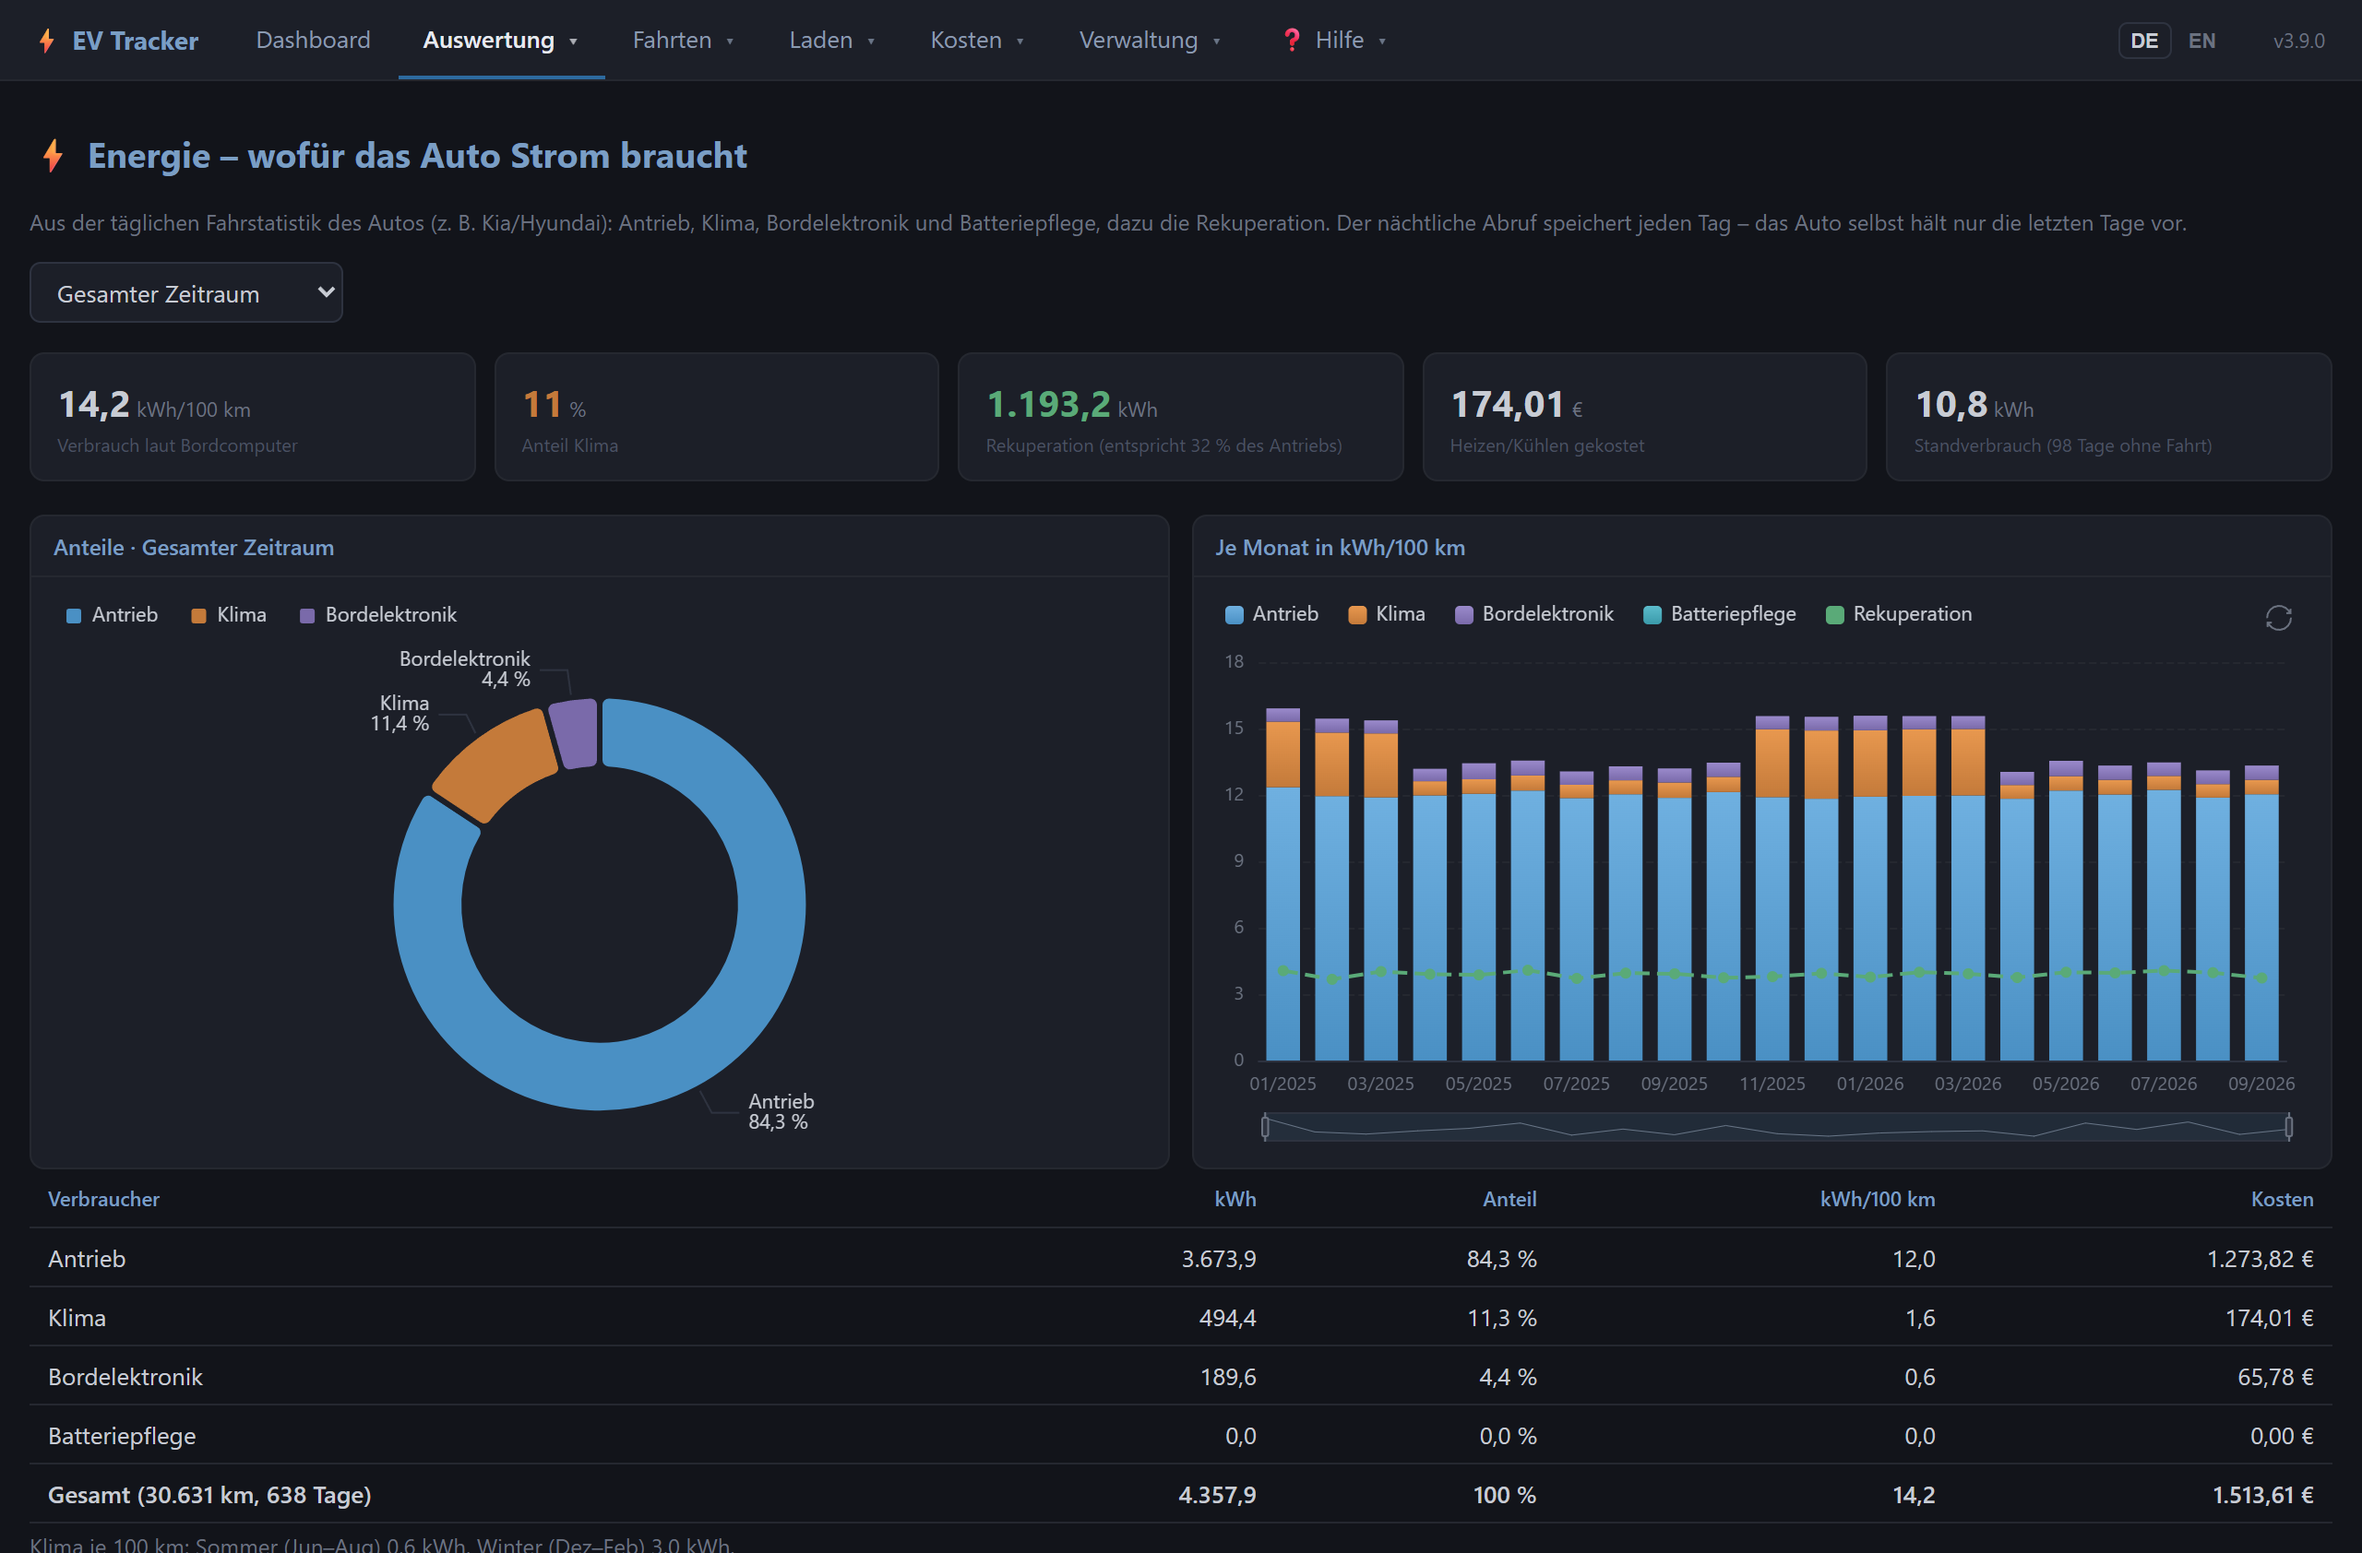
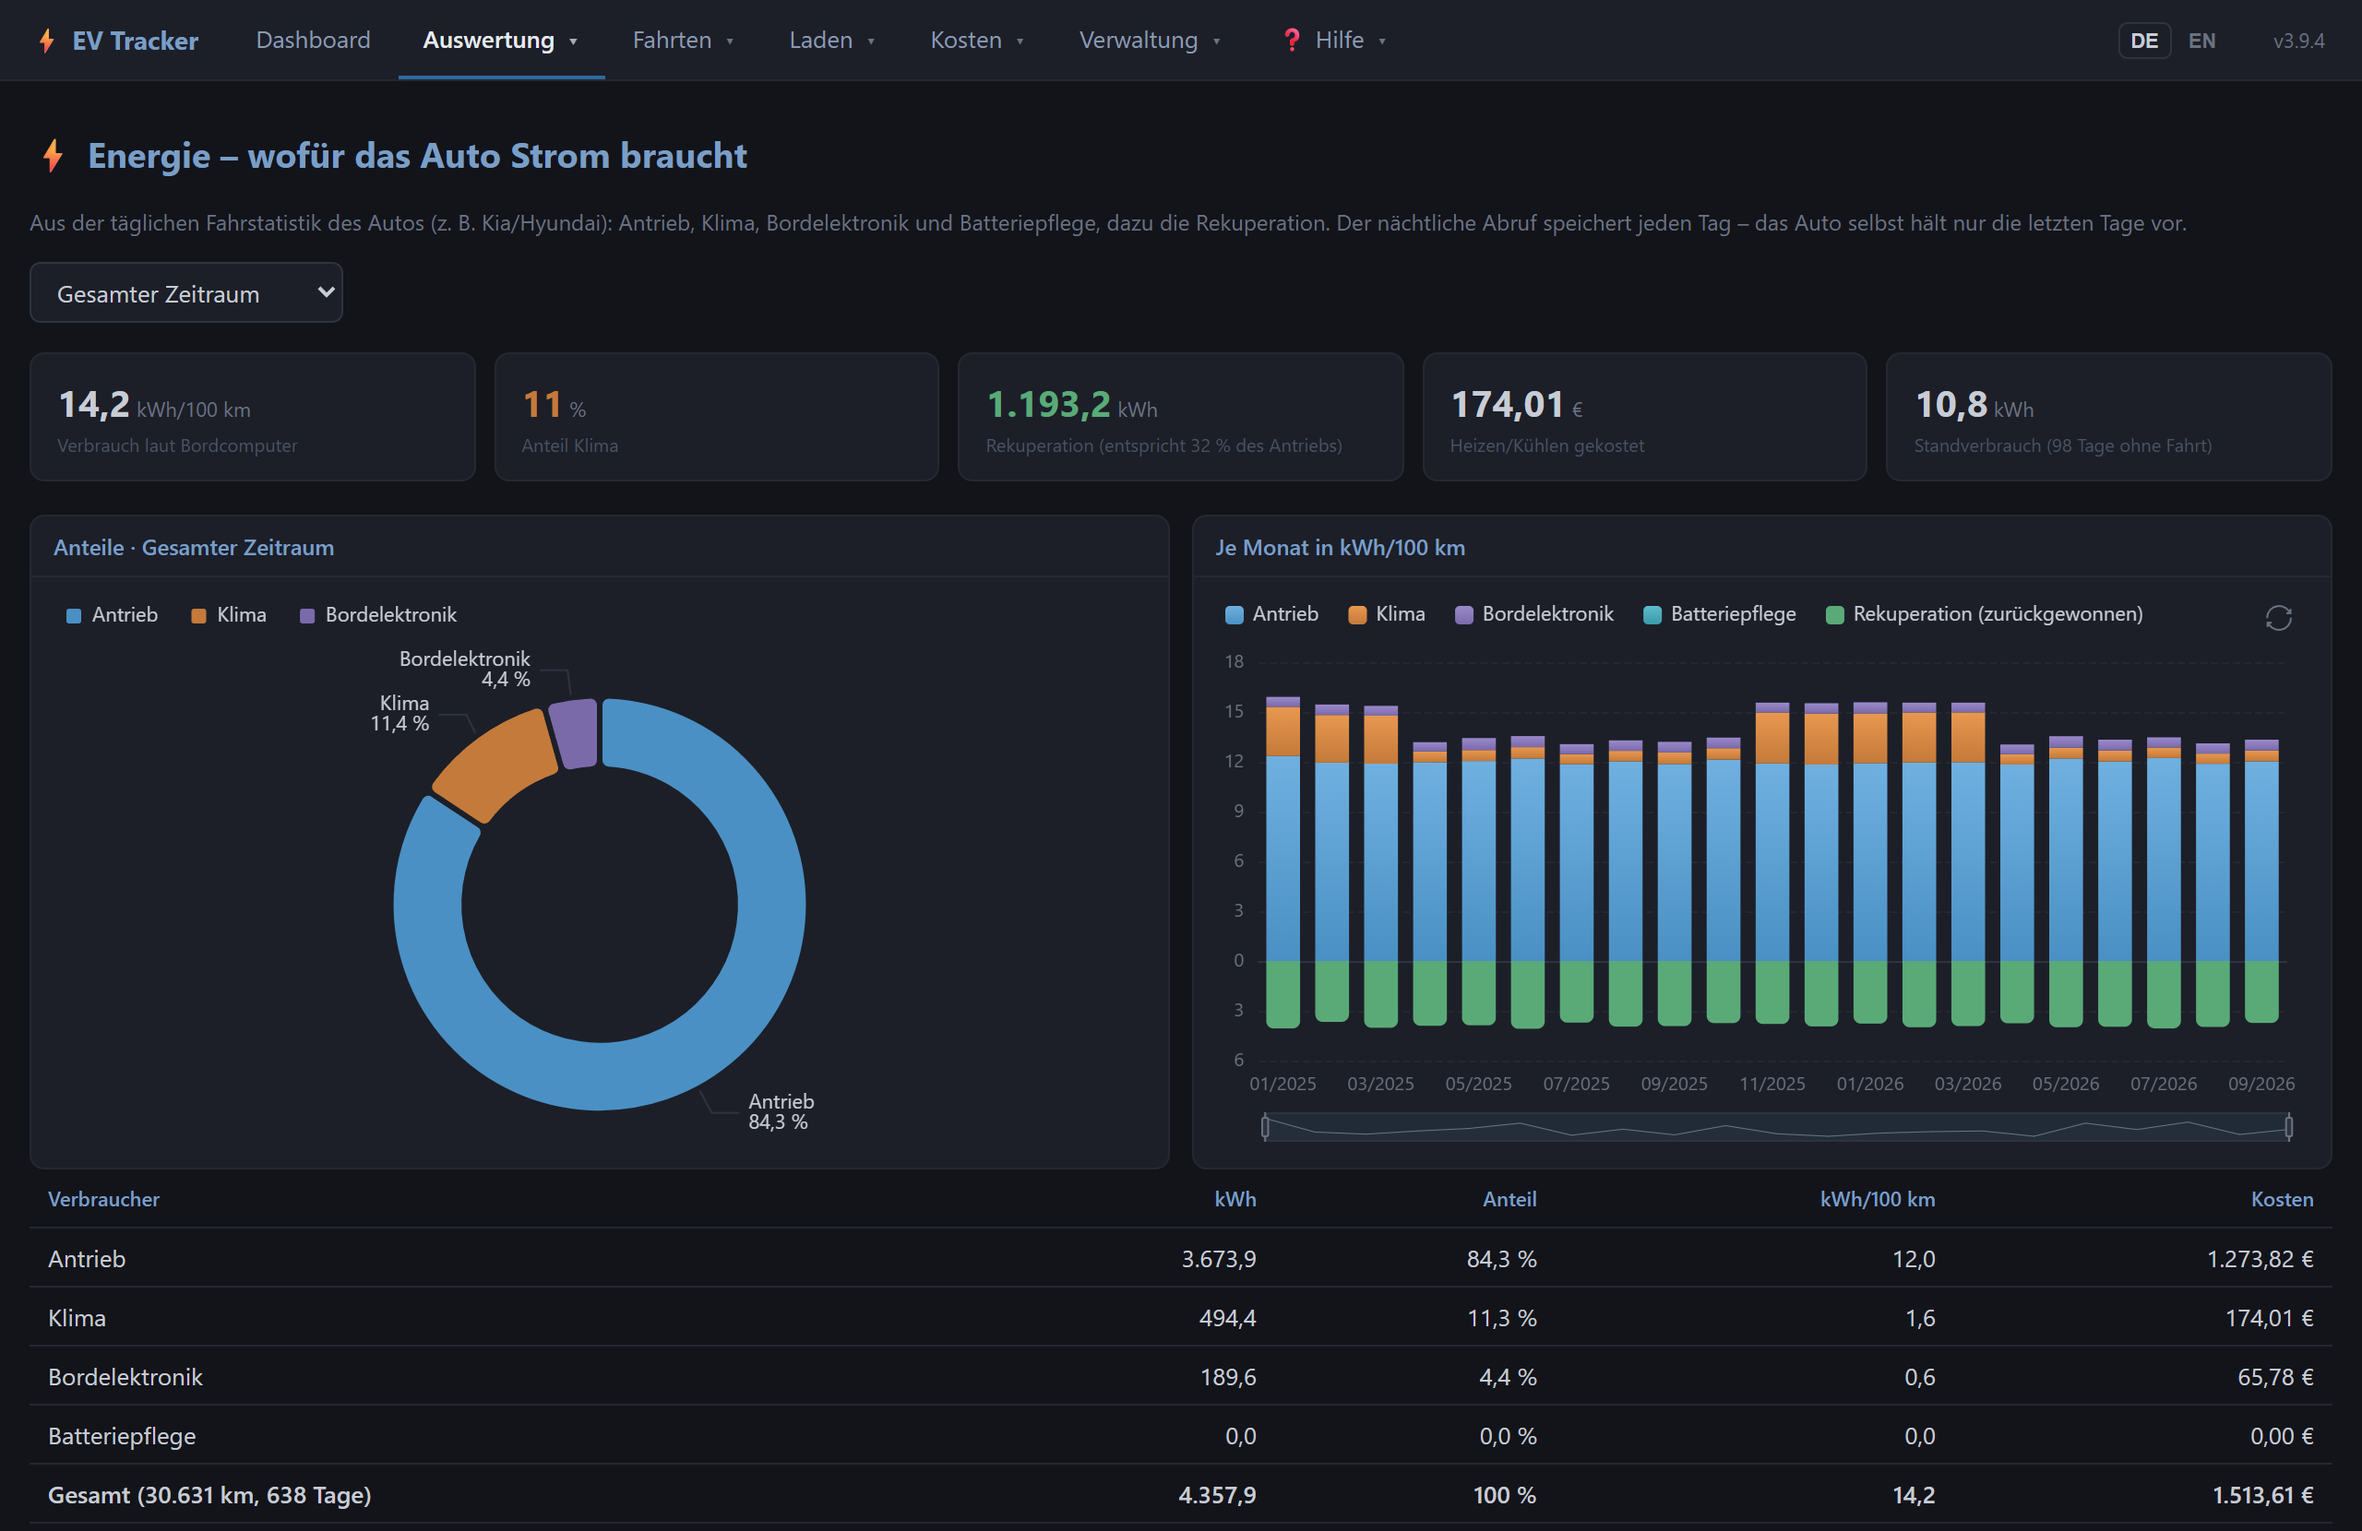
README und Screenshots fuer Version 3.9.4
- Screenshots mit v3.9.4 neu aufgenommen (Energie mit Rekuperation unter der Nulllinie,
  Ladevorgaenge wie in der Ladeliste)
- Voraussetzungen: Fahrstatistik wird immer direkt aus Home Assistant gelesen
- Hinweis zum Update von 2.x entfernt
- screenshots.py: kleinerer Rand unten, keine angeschnittene Zeile

diff --git a/video/skripte/screenshots.py b/video/skripte/screenshots.py
@@ -89,7 +89,7 @@ def main(namen):
                         hoehe = wert
                     else:
                         b = seite.locator(wert).first.bounding_box()
-                        hoehe = b["y"] - 8 if art == "vor" else b["y"] + b["height"] + 16
+                        hoehe = b["y"] - 8 if art == "vor" else b["y"] + b["height"] + 4
                     seite.screenshot(path=datei, full_page=True,
                                      clip={"x": 0, "y": 0, "width": breite, "height": hoehe})
                 print(name, "->", os.path.relpath(datei, REPO))

diff --git a/README.md b/README.md
@@ -4,12 +4,6 @@
 > stabil. Eine Sicherung über Home Assistants eigene Backups vor einem Update schadet nie.
 > Rückmeldungen und Fehlerberichte sind willkommen.
 
-> [!NOTE]
-> **Update von 2.x:** Version 3.0 hat die Datenbank für mehrere E-Autos umgebaut. Wer noch
-> eine 2.x-Version nutzt, erstellt vor dem Update eine Home-Assistant-Sicherung mit dem
-> EV Tracker Add-on und lädt zusätzlich unter **Backup** die Datenbank herunter – ohne
-> Sicherung gibt es keinen Weg zurück.
-
 Web-App zur Erfassung und Auswertung der Kosteneinsparungen eines oder mehrerer Elektroautos
 gegenüber einem Benziner, Diesel oder Autogas-Auto. Fahrzeugname und -bild sind in den Einstellungen frei wählbar –
 nicht auf ein bestimmtes Modell festgelegt. Oberfläche, Hilfe und Berichte gibt es auf Deutsch oder Englisch.
@@ -73,7 +67,7 @@ vorher in Home Assistant eingerichtet sein:
 | 💶 *Kosten Netz ins Auto (optional)* | Tatsächliche Stromkosten bei **dynamischem Tarif** (Tibber, aWATTar, Octopus …) statt eines festen Tarifs | Fortlaufender €-Zähler: jede kWh aus dem Netz × Preis in diesem Moment. Die Vorlage [`ev_netzkosten.yaml`](https://github.com/HasenbeinMH/ev-tracker-ha/blob/main/vorlagen/homeassistant/ev_netzkosten.yaml) legt ihn aus dem Preissensor an. |
 | 📨 *Ladungen einzeln senden (optional)* | Heimladungen einzeln mit Datum statt als Monatssumme | Die Vorlage [`ev_ladung_senden.yaml`](https://github.com/HasenbeinMH/ev-tracker-ha/blob/main/vorlagen/homeassistant/ev_ladung_senden.yaml) – oder der [Blueprint](https://github.com/HasenbeinMH/ev-tracker-ha/blob/main/vorlagen/blueprints/README.md) – schickt am Ladeende kWh und Kosten an den EV Tracker; Adresse und Token stehen in den Einstellungen. |
 | 🔋 *Batteriestand (optional)* | Ladeerkennung und Verbrauch aus dem Akkustand | Ebenfalls über die Fahrzeug-Integration |
-| 📊 *Tägliche Fahrstatistik (optional)* | Modul Energie: Aufteilung auf Antrieb, Klima, Bordelektronik, Rekuperation | Z. B. `sensor.…_tagliche_fahrstatistik` der Kia-/Hyundai-Integration |
+| 📊 *Tägliche Fahrstatistik (optional)* | Modul Energie: Aufteilung auf Antrieb, Klima, Bordelektronik, Rekuperation | Z. B. `sensor.…_tagliche_fahrstatistik` der Kia-/Hyundai-Integration. Die Werte stecken in den Attributen – der EV Tracker liest sie immer direkt aus Home Assistant, auch wenn InfluxDB o. ä. als Quelle eingestellt ist; die Einstellungen schlagen den Sensor vor. |
 | 📍 *Standort (optional)* | Modul Fahrtenbuch: Start und Ziel jeder Fahrt | `device_tracker` des Autos oder – wenn immer dieselbe Person fährt – des Handys (genauer). Der EV Tracker schreibt den Standort selbst mit, der Recorder muss ihn nicht aufnehmen. |
 | 🩺 *Reichweite, Akku-Gesundheit (optional)* | Modul Akku: Reichweite laut Auto, gemessener SoH | Ohne SoH-Sensor schätzt der EV Tracker den Wert oder nimmt einen von Hand eingetragenen (Werkstatt, OBD-App) |
 
